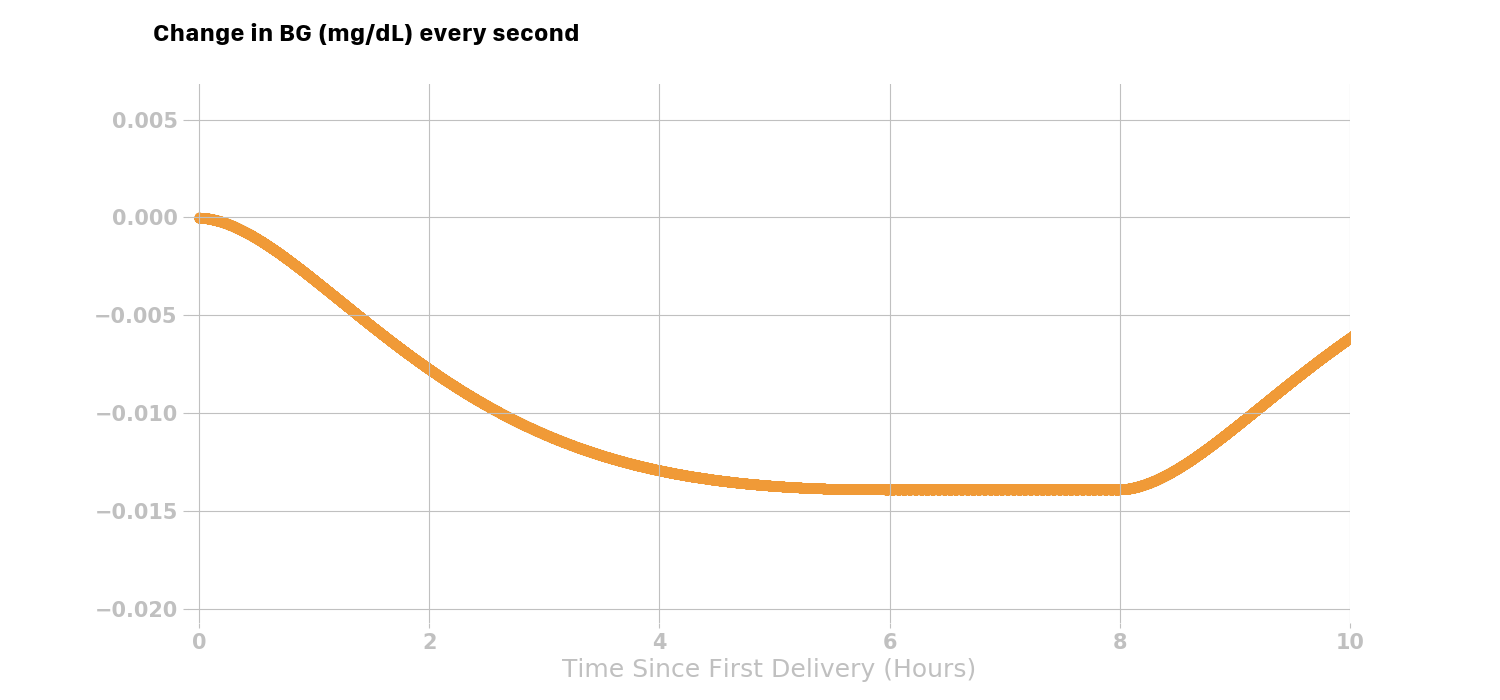
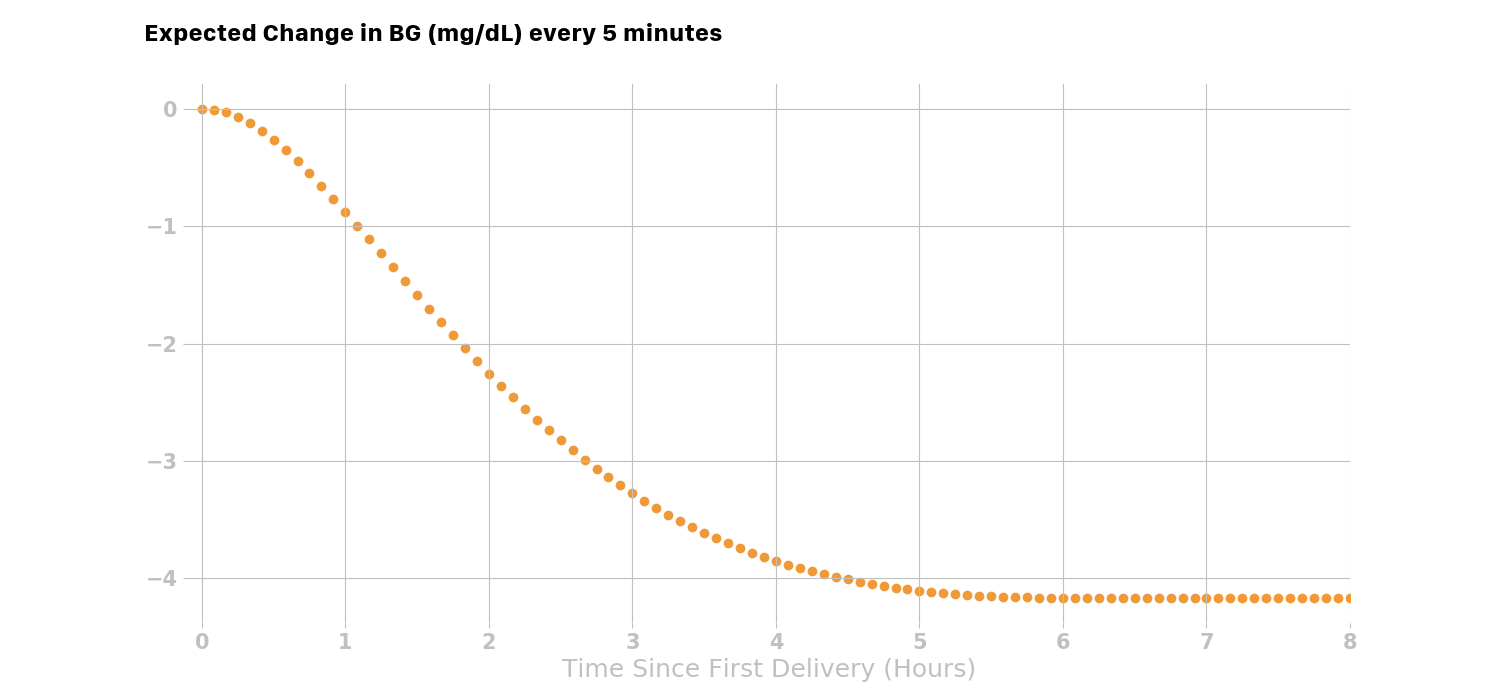
describe counter basal insulin effect

diff --git a/projects/loop-algorithm/loopTempBasalLogic-SimulateTempBasalWithMultipleInsulinBoluses.py b/projects/loop-algorithm/loopTempBasalLogic-SimulateTempBasalWithMultipleInsulinBoluses.py
@@ -336,22 +336,66 @@ plt.show()
 plt.close('all')
 
 
-# %% delta BG
+# %% delta BG every 5 minutes
+cumInsulinEffect1Second = pd.Series(data=cumulativeInsulinEffect.deltaGlucoseEffect.values,
+                                    index=cumulativeInsulinEffect.dateTime, name="deltaGlucoseEffect")
+cumInsulinEffect5Minute = cumInsulinEffect1Second.resample('5T', label="right").sum().reset_index()
+cumInsulinEffect5Minute["deltaGlucoseEffect"] = cumInsulinEffect5Minute.deltaGlucoseEffect.shift(1).fillna(0)
 figureName = "delta-bg"
-yLabel = "Change in BG (mg/dL) every second"
+yLabel = "Expected Change in BG (mg/dL) every 5 minutes"
 fig, ax = plt.subplots(figsize=figureSizeInches)
 
 # plot the curve
-ax.scatter(xDataInHours, cumulativeInsulinEffect["deltaGlucoseEffect"], color="#f09a37")
+xDataIn5Minutes = np.arange(0, 16, 5/60)
+ax.scatter(xDataIn5Minutes, cumInsulinEffect5Minute["deltaGlucoseEffect"], color="#f09a37")
 
 # run the common figure elements here
 ax = common_figure_elements(ax, xLabel, yLabel, figureFont, labelFontSize, tickLabelFontSize, coord_color)
 
 # extras for this plot
-ax.set_xlim(-0.1, 10)
+ax.set_xlim(-0.1, 8)
 
 # save the figure
 plt.savefig(os.path.join(outputPath, figureClass + figureName + ".png"))
 plt.show()
 plt.close('all')
 
+
+# %% cumulative glucose effect
+figureName = "cumulative-insulin-effect"
+yLabel = "Cumulative Insulin Effect on BG (mg/dL)"
+fig, ax = plt.subplots(figsize=figureSizeInches)
+
+# plot the curve
+ax.plot(xDataInHours, cumulativeInsulinEffect["cumulativeGlucoseEffect"], lw=4, color="#f09a37")
+
+# run the common figure elements here
+ax = common_figure_elements(ax, xLabel, yLabel, figureFont, labelFontSize, tickLabelFontSize, coord_color)
+
+# extras for this plot
+ax.set_xlim(-0.1, 14)
+
+# save the figure
+plt.savefig(os.path.join(outputPath, figureClass + figureName + ".png"))
+plt.show()
+plt.close('all')
+
+
+# %% counter basal effect
+figureName = "counter-basal-insulin-effect"
+yLabel = "Counter Basal Insulin Effect on BG (mg/dL)"
+fig, ax = plt.subplots(figsize=figureSizeInches)
+
+# plot the curve
+ax.plot(xDataInHours, -cumulativeInsulinEffect["cumulativeGlucoseEffect"], lw=4, color="#f09a37")
+
+# run the common figure elements here
+ax = common_figure_elements(ax, xLabel, yLabel, figureFont, labelFontSize, tickLabelFontSize, coord_color)
+
+# extras for this plot
+ax.set_xlim(-0.1, 14)
+
+# save the figure
+plt.savefig(os.path.join(outputPath, figureClass + figureName + ".png"))
+plt.show()
+plt.close('all')
